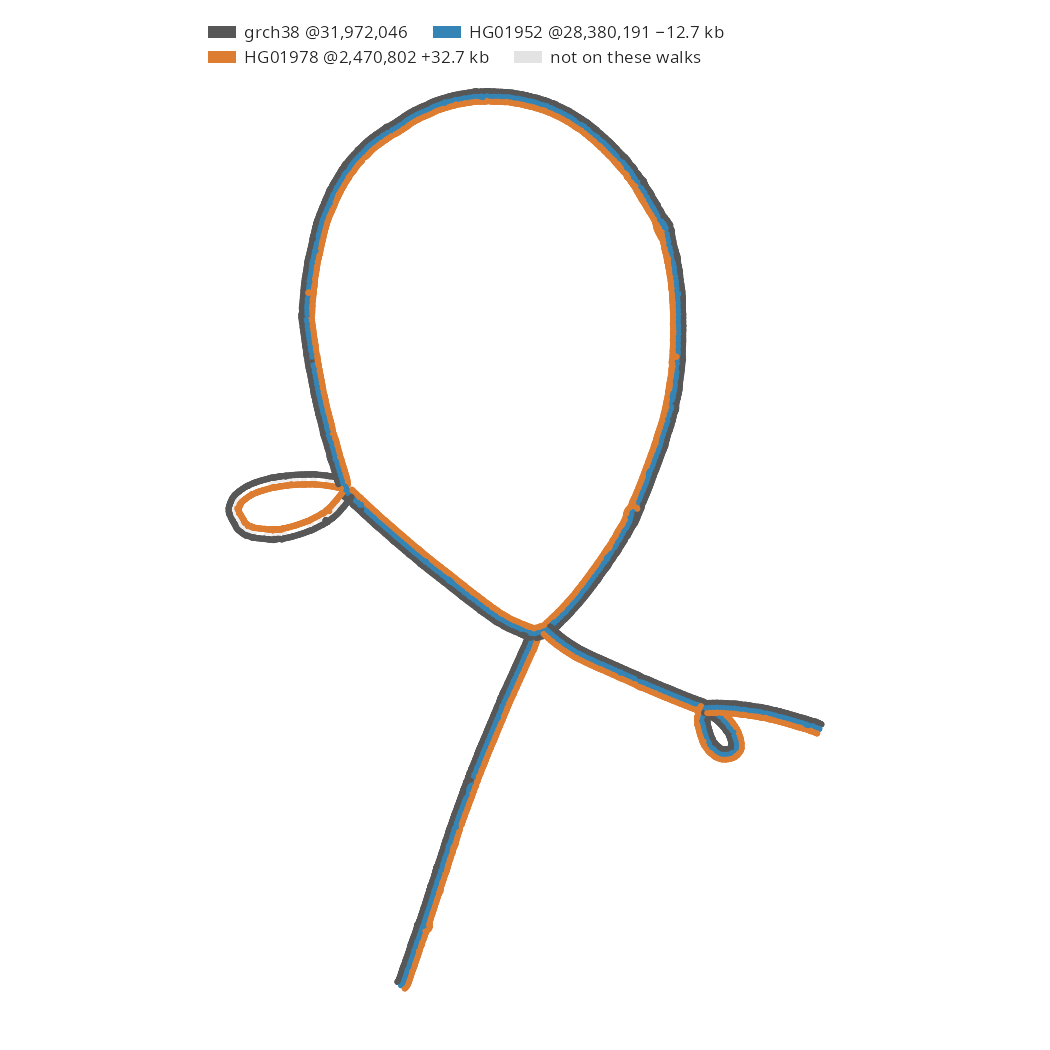
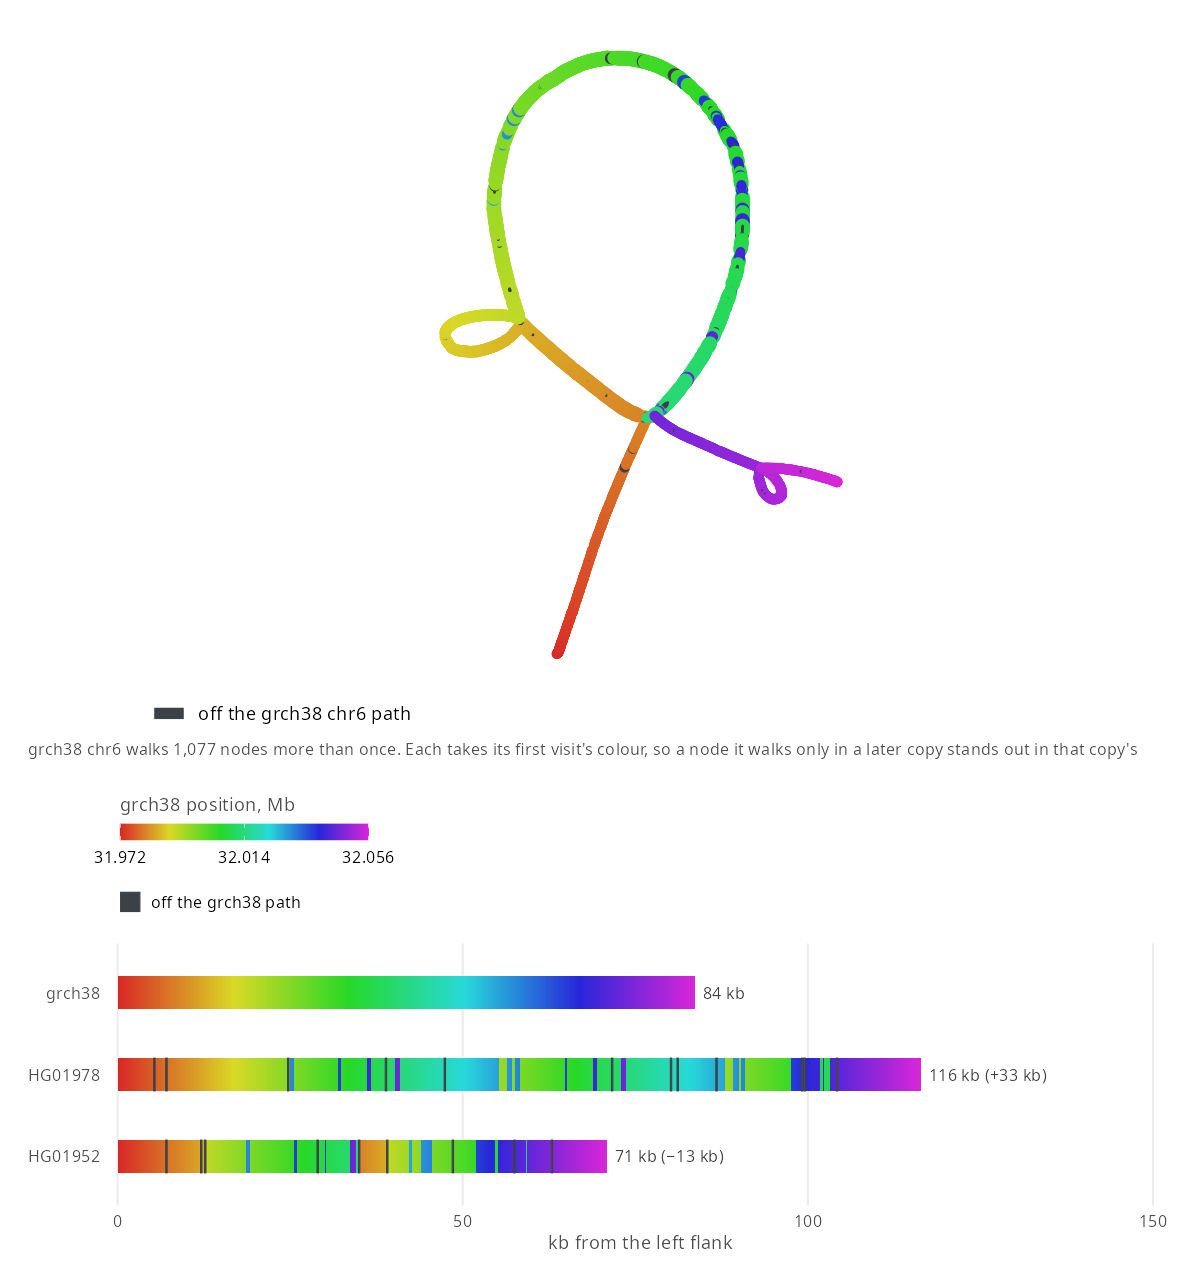
Draw the syng overlay with a gradient and walk rows, and retitle the KIV-2 figure

diff --git a/README.md b/README.md
@@ -68,9 +68,9 @@ gfa-to-tabix hprc-v2.1-mc-grch38-f5.gfa --walks --refs GRCh38 -o hprc-v2.1-mc-gr
 
 <!-- gallery -->
 <table>
-<tr><td width="25%"><a href="docs/gallery.md#kiv-2-against-a-straight-grch38-backbone-with-lpas-exons"><img src="gallery/kiv2_stress.png" alt="Stress layout of the KIV-2 array from the hosted index: GRCh38 drawn straight and coloured by position, LPA's exons outlined in orange, non-reference nodes in grey hanging below, and dashed arches where haplotypes skip reference sequence" width="100%"></a><br>KIV-2 against a straight GRCh38 backbone, with LPA's exons</td><td width="25%"><a href="docs/gallery.md#lpas-kiv-2-repeat-a-panel-per-walk"><img src="gallery/kiv2_walks.png" alt="Force-directed layout of the KIV-2 array cut from the walk file for HG00097, GRCh38 and HG00097 each lifted in a separate panel and shaded yellow to red along its length: HG00097 walks one 22 kb loop that GRCh38 skips, and the panel titles give HG00097 55 kb and GRCh38 32.8 kb, each span the region plus 1 kb of flank either side" width="100%"></a><br>LPA's KIV-2 repeat, a panel per walk</td><td width="25%"><a href="docs/gallery.md#three-kiv-2-haplotypes-overlaid"><img src="gallery/kiv2_overlay.png" alt="Force-directed KIV-2 array of GRCh38, HG00097#1 and HG00133#1 coloured red to magenta along GRCh38, non-reference nodes in charcoal, with a walk row per haplotype below in the same hues: GRCh38 is one 31 kb gradient, HG00097#1 adds a 22 kb non-reference stretch, and HG00133#1 adds 116 kb, the large loop" width="100%"></a><br>Three KIV-2 haplotypes overlaid</td><td width="25%"><a href="docs/gallery.md#cfhr3-and-cfhr1-deleted-in-one-of-three-walks"><img src="gallery/cfh_overlay.png" alt="Force-directed CFH locus coloured red to magenta along GRCh38, with a walk row per haplotype below in the same hues: GRCh38 and HG00097#1 run the loop through CFHR3 and CFHR1, and HG02055#1, 84.5 kb shorter, skips from green to blue along the dashed deletion edge" width="100%"></a><br>CFHR3 and CFHR1 deleted in one of three walks</td></tr>
+<tr><td width="25%"><a href="docs/gallery.md#kiv-2-against-a-straight-grch38-backbone-with-lpas-exons"><img src="gallery/kiv2_stress.png" alt="Stress layout of the KIV-2 array from the hosted index: GRCh38 drawn straight and coloured by position, LPA's exons outlined in orange, non-reference nodes in grey hanging below, and dashed arches where haplotypes skip reference sequence" width="100%"></a><br>KIV-2 against a straight GRCh38 backbone, with LPA's exons</td><td width="25%"><a href="docs/gallery.md#lpas-kiv-2-repeat-a-panel-per-walk"><img src="gallery/kiv2_walks.png" alt="Force-directed layout of the KIV-2 array cut from the walk file for HG00097, GRCh38 and HG00097 each lifted in a separate panel and shaded yellow to red along its length: HG00097 walks one 22 kb loop that GRCh38 skips, and the panel titles give HG00097 55 kb and GRCh38 32.8 kb, each span the region plus 1 kb of flank either side" width="100%"></a><br>LPA's KIV-2 repeat, a panel per walk</td><td width="25%"><a href="docs/gallery.md#three-kiv-2-haplotypes-by-reference-position"><img src="gallery/kiv2_overlay.png" alt="Force-directed KIV-2 array of GRCh38, HG00097#1 and HG00133#1 coloured red to magenta along GRCh38, non-reference nodes in charcoal, with a walk row per haplotype below in the same hues: GRCh38 is one 31 kb gradient, HG00097#1 adds a 22 kb non-reference stretch, and HG00133#1 adds 116 kb, the large loop" width="100%"></a><br>Three KIV-2 haplotypes by reference position</td><td width="25%"><a href="docs/gallery.md#cfhr3-and-cfhr1-deleted-in-one-of-three-walks"><img src="gallery/cfh_overlay.png" alt="Force-directed CFH locus coloured red to magenta along GRCh38, with a walk row per haplotype below in the same hues: GRCh38 and HG00097#1 run the loop through CFHR3 and CFHR1, and HG02055#1, 84.5 kb shorter, skips from green to blue along the dashed deletion edge" width="100%"></a><br>CFHR3 and CFHR1 deleted in one of three walks</td></tr>
 <tr><td width="25%"><a href="docs/gallery.md#kiv-2-copy-number-as-walk-rows"><img src="gallery/kiv2_rows.png" alt="Walk rows at KIV-2 on a bp-from-flank axis: between the flanking reference nodes GRCh38 spans 31 kb and HG00133#2 164 kb, and the extra copies, on non-reference nodes, fall into three blocks: A, 68 kb walked by HG02055#1 and HG00133#2; B, 22 kb walked by four haplotypes; and C, 5.5 kb walked by two" width="100%"></a><br>KIV-2 copy number as walk rows</td><td width="25%"><a href="docs/gallery.md#amylase-copy-number-in-twelve-haplotypes"><img src="gallery/amylase_rows.png" alt="Walk rows over the salivary amylase genes, each bar coloured by the GRCh38 position it covers: the haplotypes span 146 kb to 475 kb, HG00128#1 walks the stretch near 103.72 Mb twice, so its green recurs, five haplotypes walk much of the non-reference block A twice, and HG00097#1 has a 19 kb stretch the graph lacks, drawn as an open box" width="100%"></a><br>Amylase copy number in twelve haplotypes</td><td width="25%"><a href="docs/gallery.md#c4a-and-c4b-in-the-stress-layout"><img src="gallery/c4_stress.png" alt="Stress layout of the complement C4 genes in the MHC, GRCh38 drawn straight, its C4A and C4B the long forms: non-reference sequence hangs in loops below C4A and C4B, and a dashed arch from inside C4A to inside C4B skips one module of C4, CYP21A1P and TNXA" width="100%"></a><br>C4A and C4B in the stress layout</td><td width="25%"><a href="docs/gallery.md#rhd-and-cyp2d6-gene-deletions-as-arches"><img src="gallery/deletions.png" alt="RHD and CYP2D6 in the stress layout, one above the other, GRCh38 straight and genes named: in each, a dashed arch spans the whole gene, the route of haplotypes that skip it, and non-reference sequence hangs in grey" width="100%"></a><br>RHD and CYP2D6 gene deletions as arches</td></tr>
-<tr><td width="25%"><a href="docs/gallery.md#c4-as-a-syng-graph-from-impg"><img src="gallery/syng_c4.png" alt="Force-directed syng graph of C4 from 90 haplotypes: a ring coloured red to magenta along GRCh38, whose two C4 copies share its nodes, with blue specks where only the second copy goes. Under it, walk rows for three samples in the same hues: GRCh38 is one smooth gradient over 84 kb, HG02080's 51 kb haplotype has one copy and HG01978's 116 kb haplotype three, each copy in the colours of the GRCh38 copy it continues" width="100%"></a><br>C4 as a syng graph from impg</td><td width="25%"><a href="docs/gallery.md#c4s-herv-k-loop-in-three-syng-walks"><img src="gallery/syng_overlay.png" alt="The syng graph of C4 with three walks lifted together, one flat colour each: GRCh38 in charcoal, HG01952#1 in blue, 12.7 kb shorter, and HG01978#2 in orange, 32.7 kb longer. All three run the ring every C4 copy shares, and only HG01952#1 skips the loop at the left, the 6.5 kb HERV-K of C4's long form" width="100%"></a><br>C4's HERV-K loop in three syng walks</td><td width="25%"><a href="docs/gallery.md#your-own-colours-kiv-2-nodes-by-walk-passes"><img src="gallery/own_colours.png" alt="The KIV-2 array cut from the walk file, force-directed and drawn with plain ggplot2 layers: grey edges, and each node coloured by how many times the cut's walks pass through it, light for once to dark for six" width="100%"></a><br>Your own colours: KIV-2 nodes by walk passes</td></tr>
+<tr><td width="25%"><a href="docs/gallery.md#c4-as-a-syng-graph-from-impg"><img src="gallery/syng_c4.png" alt="Force-directed syng graph of C4 from 90 haplotypes: a ring coloured red to magenta along GRCh38, whose two C4 copies share its nodes, with blue specks where only the second copy goes. Under it, walk rows for three samples in the same hues: GRCh38 is one smooth gradient over 84 kb, HG02080's 51 kb haplotype has one copy and HG01978's 116 kb haplotype three, each copy in the colours of the GRCh38 copy it continues" width="100%"></a><br>C4 as a syng graph from impg</td><td width="25%"><a href="docs/gallery.md#c4s-herv-k-loop-in-three-syng-walks"><img src="gallery/syng_overlay.png" alt="The syng graph of C4 coloured red to magenta along GRCh38, with a walk row per haplotype below in the same hues: GRCh38 is one 84 kb gradient, HG01952#1 is 12.7 kb shorter and HG01978#2 32.7 kb longer. All three run the ring every C4 copy shares, and only HG01952#1 skips the loop at the left, the 6.5 kb HERV-K of C4's long form" width="100%"></a><br>C4's HERV-K loop in three syng walks</td><td width="25%"><a href="docs/gallery.md#your-own-colours-kiv-2-nodes-by-walk-passes"><img src="gallery/own_colours.png" alt="The KIV-2 array cut from the walk file, force-directed and drawn with plain ggplot2 layers: grey edges, and each node coloured by how many times the cut's walks pass through it, light for once to dark for six" width="100%"></a><br>Your own colours: KIV-2 nodes by walk passes</td></tr>
 </table>
 <!-- /gallery -->
 

diff --git a/docs/gallery.md b/docs/gallery.md
@@ -59,7 +59,7 @@ g <- bandage_layout(
 autoplot(g, ncol = 2)
 ```
 
-## Three KIV-2 haplotypes overlaid
+## Three KIV-2 haplotypes by reference position
 
 `chr6:160,616,004-160,646,753`
 
@@ -235,21 +235,26 @@ rows <- bandage_walk_rows(syng, haplotypes = c("HG02080", "HG00735", "HG01978"))
 
 `chr6:31,972,047-32,055,647`
 
-- Each walk runs the ring once per C4 copy, so the lanes show which nodes a walk
-  visits and the key's lengths show its copies: HG01978#2 has one 32.7 kb copy
-  more than GRCh38
+- The rows show which stretches each walk visits and its copy count: HG01978#2 has
+  one 32.7 kb copy more than GRCh38
 - The loop at the left is the HERV-K in C4's intron 9, which makes a C4 long.
   GRCh38's C4A and C4B both contain it, and both of HG01952#1's copies lack it
 
-![The syng graph of C4 with three walks lifted together, one flat colour each: GRCh38 in charcoal, HG01952#1 in blue, 12.7 kb shorter, and HG01978#2 in orange, 32.7 kb longer. All three run the ring every C4 copy shares, and only HG01952#1 skips the loop at the left, the 6.5 kb HERV-K of C4's long form](../gallery/syng_overlay.png)
+![The syng graph of C4 coloured red to magenta along GRCh38, with a walk row per haplotype below in the same hues: GRCh38 is one 84 kb gradient, HG01952#1 is 12.7 kb shorter and HG01978#2 32.7 kb longer. All three run the ring every C4 copy shares, and only HG01952#1 skips the loop at the left, the 6.5 kb HERV-K of C4's long form](../gallery/syng_overlay.png)
 
 ```r
 library(ggbandage)
+library(ggplot2)
+library(patchwork)
 
 syng <- "https://raw.githubusercontent.com/GMOD/jbrowse-plugin-graphgenomeviewer/main/test_data/syng/c4.syng.gfa.gz"
 
-g <- bandage_layout(syng, walks = c("grch38", "HG01952#1", "HG01978#2"))
-autoplot(g)
+haps <- c("HG01952#1", "HG01978#2")
+g <- bandage_layout(syng)
+rows <- bandage_walk_rows(syng, haplotypes = haps)
+(autoplot(g) + guides(fill = "none")) /
+  autoplot(rows, ribbons = FALSE, hues = "bandage") +
+  plot_layout(heights = c(2.5, 1))
 ```
 
 ## Your own colours: KIV-2 nodes by walk passes
